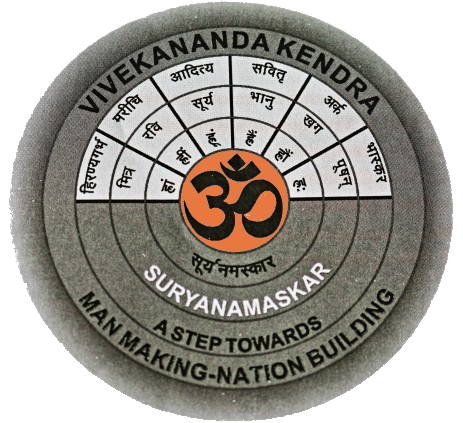
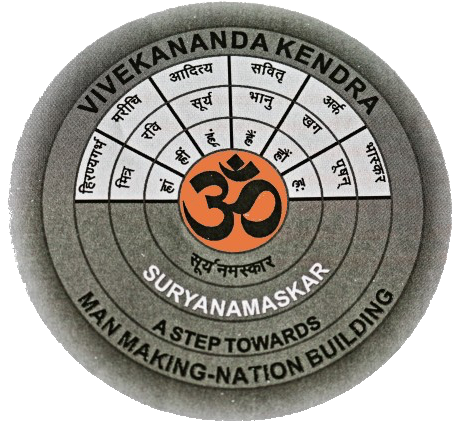
adjusting colours

diff --git a/lib/main.dart b/lib/main.dart
@@ -17,8 +17,30 @@ class SuryaNamaskar extends StatelessWidget {
     return MaterialApp(
       title: 'Surya Namaskar',
       theme: ThemeData(
-        primarySwatch: Colors.orange
+        colorScheme: ColorScheme.fromSwatch().copyWith(
+          primary: const Color(0xe4FF7722),
+          secondary: const Color(0xffffffff),
+        ),
+          textTheme: Theme.of(context).textTheme.apply(
+            bodyColor: Colors.black54,
+            displayColor: Colors.black87,
+          )
       ),
+      darkTheme: ThemeData(
+        brightness: Brightness.dark,
+        colorScheme: ColorScheme.fromSwatch().copyWith(
+          primary: const Color(0xc0FF7722),
+          secondary: const Color(0xb0FF7722),
+          surface: const Color(0xc0FF7722),
+          onSecondary: const Color(0x8800ff00),
+          brightness: Brightness.dark
+        ),
+        textTheme: Theme.of(context).textTheme.apply(
+          bodyColor: Colors.white38,
+          displayColor: Colors.white70,
+        ),
+      ),
+      themeMode: ThemeMode.dark,
       home: FrontPage()
     );
   }

diff --git a/lib/frontpage.dart b/lib/frontpage.dart
@@ -63,7 +63,18 @@ is a yoga based exercise'''
   @override
   Widget build(BuildContext context) {
     return Scaffold(
-      appBar: AppBar(title: Text('Surya Namaskar')),
+      appBar: AppBar(
+          title: Text('Surya Namaskar'),
+          actions: [
+            Padding(
+              padding: const EdgeInsets.symmetric(horizontal: padding),
+              child: TextButton(
+                  onPressed: () => true,
+                  child: Icon(Icons.settings)
+              ),
+            )
+          ],
+      ),
       body: SafeArea(
         child: OrientationBuilder(
           builder: (context, orientation) {
